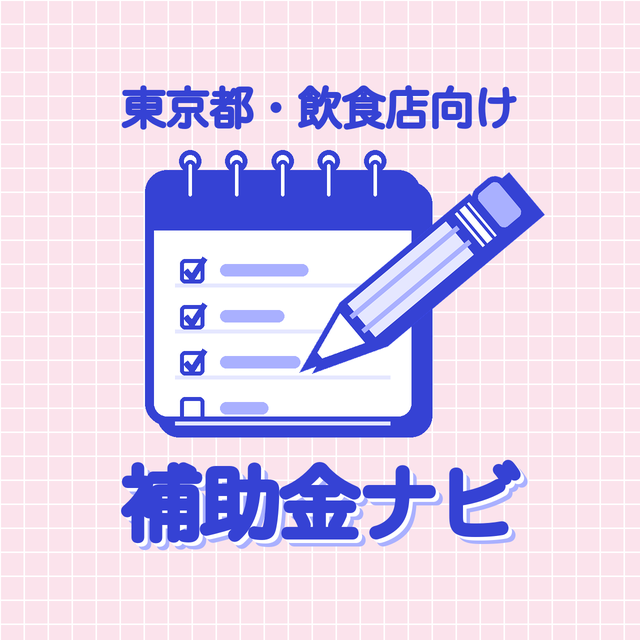
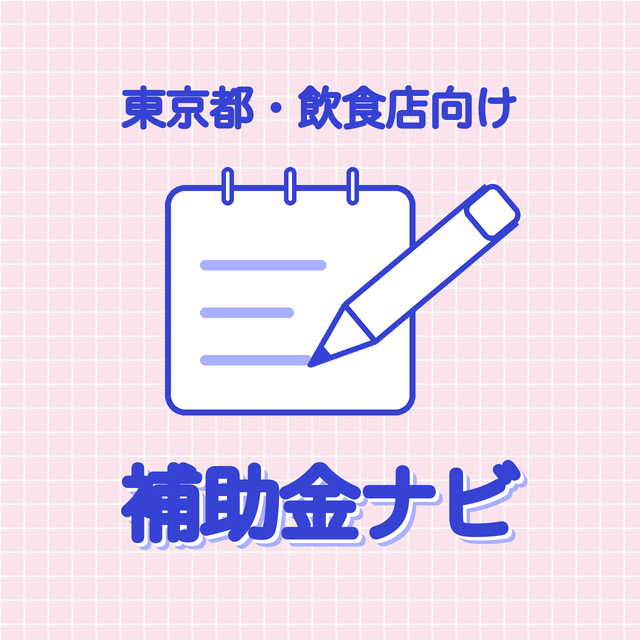
LINEアイコンのメモ帳と鉛筆をシンプル・白多めに

Changed region(s): [[0.2188, 0.2188, 0.8438, 0.6875]]

diff --git a/brand/make_icon_memo.py b/brand/make_icon_memo.py
@@ -1,4 +1,4 @@
-"""LINEアイコン：メモ帳と鉛筆（サイトと同じピンク×コバルトブルー、赤系は使わない）640×640 PNG"""
+"""LINEアイコン：シンプルなメモ帳と鉛筆（白多め）（サイトと同じピンク×コバルトブルー、赤系は使わない）640×640 PNG"""
 from pathlib import Path
 from PIL import Image, ImageDraw, ImageFont
 
@@ -22,48 +22,28 @@ def ctext(d, y, text, size, fill, stroke=0, shadow=None):
 
 
 def notepad(d, x0, y0, x1, y1):
-    # ずらし影 → 紙 → 上の帯 → リング → 罫線 → チェック
-    d.rounded_rectangle((x0 + 24, y0 + 24, x1 + 24, y1 + 24), radius=44, fill=BLUE)
-    d.rounded_rectangle((x0, y0, x1, y1), radius=44, fill=WHITE, outline=BLUE, width=18)
-    d.rounded_rectangle((x0, y0, x1, y0 + 120), radius=44, fill=BLUE)
-    d.rectangle((x0, y0 + 70, x1, y0 + 120), fill=BLUE)
-    n = 5
-    for i in range(n):  # リング（綴じ穴）
-        cx = x0 + 90 + i * (x1 - x0 - 180) / (n - 1)
-        d.ellipse((cx - 22, y0 - 40, cx + 22, y0 + 4), fill=WHITE, outline=BLUE, width=10)
-        d.rounded_rectangle((cx - 11, y0 - 20, cx + 11, y0 + 60), radius=11, fill=WHITE, outline=BLUE, width=8)
-    top = y0 + 190
-    for i in range(4):  # 罫線と、書き込みを表す線＋チェック
-        y = top + i * 92
-        d.line((x0 + 60, y + 40, x1 - 60, y + 40), fill=BLUE_SOFT, width=8)
-        d.rounded_rectangle((x0 + 70, y - 12, x0 + 118, y + 36), radius=10, outline=BLUE, width=8)
-        if i < 3:  # チェック済み
-            d.line((x0 + 80, y + 10, x0 + 94, y + 26, x0 + 120, y - 14), fill=BLUE, width=12, joint="curve")
-        w = [0.55, 0.40, 0.50, 0.30][i]
-        d.rounded_rectangle((x0 + 150, y - 2, x0 + 150 + (x1 - x0 - 230) * w, y + 22), radius=12, fill=BLUE_MID)
+    """シンプルなメモ帳：白い紙＋細めの青い線、リング3つ、罫線3本だけ"""
+    d.rounded_rectangle((x0, y0, x1, y1), radius=40, fill=WHITE, outline=BLUE, width=12)
+    for i in range(3):  # リング
+        cx = x0 + (x1 - x0) * (i + 1) / 4
+        d.rounded_rectangle((cx - 12, y0 - 36, cx + 12, y0 + 40), radius=12, fill=WHITE, outline=BLUE, width=9)
+    for i, w in enumerate((0.70, 0.52, 0.62)):  # 書き込みの線
+        y = y0 + 150 + i * 95
+        d.rounded_rectangle((x0 + 70, y, x0 + 70 + (x1 - x0 - 140) * w, y + 20), radius=10, fill=BLUE_MID)
 
 
-def pencil(size_len=640, thick=120):
-    """横向きの鉛筆を描いて返す（あとで回転させる）。赤やピンクは使わない"""
+def pencil(size_len=520, thick=96):
+    """シンプルな鉛筆：白い軸に青い輪郭、先端の芯と消しゴムの区切りだけ"""
     L, T = size_len, thick
-    im = Image.new("RGBA", (L + 60, T + 60), (0, 0, 0, 0))
+    im = Image.new("RGBA", (L + 40, T + 40), (0, 0, 0, 0))
     d = ImageDraw.Draw(im)
-    o = 30
-    tip = 150
-    # 影
-    d.polygon([(o + 18, o + 18 + T / 2), (o + 18 + tip, o + 18), (o + 18 + L, o + 18), (o + 18 + L, o + 18 + T), (o + 18 + tip, o + 18 + T)], fill=BLUE)
-    # 削った木の部分（白）と芯（青）
-    d.polygon([(o, o + T / 2), (o + tip, o), (o + tip, o + T)], fill=WHITE, outline=BLUE, width=12)
-    d.polygon([(o, o + T / 2), (o + 52, o + T / 2 - 19), (o + 52, o + T / 2 + 19)], fill=BLUE)
-    # 軸（淡いブルー）＋ストライプ
-    d.rectangle((o + tip, o, o + L - 130, o + T), fill=BLUE_SOFT, outline=BLUE, width=12)
-    d.line((o + tip, o + T / 3, o + L - 130, o + T / 3), fill=BLUE_MID, width=10)
-    d.line((o + tip, o + 2 * T / 3, o + L - 130, o + 2 * T / 3), fill=BLUE_MID, width=10)
-    # 金具（白）と消しゴム（中間のブルー）
-    d.rectangle((o + L - 130, o, o + L - 70, o + T), fill=WHITE, outline=BLUE, width=12)
-    d.line((o + L - 110, o, o + L - 110, o + T), fill=BLUE, width=6)
-    d.line((o + L - 90, o, o + L - 90, o + T), fill=BLUE, width=6)
-    d.rounded_rectangle((o + L - 76, o, o + L, o + T), radius=24, fill=BLUE_MID, outline=BLUE, width=12)
+    o, tip = 20, 130
+    d.polygon([(o, o + T / 2), (o + tip, o), (o + L, o), (o + L, o + T), (o + tip, o + T)], fill=WHITE)
+    d.line([(o + tip, o), (o + L - 20, o)], fill=BLUE, width=11)
+    d.line([(o + tip, o + T), (o + L - 20, o + T)], fill=BLUE, width=11)
+    d.rounded_rectangle((o + L - 90, o, o + L, o + T), radius=22, fill=WHITE, outline=BLUE, width=11)
+    d.line([(o + tip, o), (o, o + T / 2), (o + tip, o + T), (o + tip, o)], fill=BLUE, width=11, joint="curve")
+    d.polygon([(o, o + T / 2), (o + 44, o + T / 2 - 16), (o + 44, o + T / 2 + 16)], fill=BLUE)
     return im
 
 
@@ -74,9 +54,9 @@ for i in range(0, S, 48):
     d.line((0, i, S, i), fill=GRID, width=3)
 
 ctext(d, 170, "東京都・飲食店向け", 88, BLUE, stroke=3)
-notepad(d, 290, 340, 840, 850)
-p = pencil(560, 110).rotate(40, expand=True, resample=Image.BICUBIC)  # ペン先を左下（未チェックの行）に
-img.paste(p, (520, 300), p)
+notepad(d, 330, 370, 830, 830)
+p = pencil().rotate(40, expand=True, resample=Image.BICUBIC)  # ペン先を左下（3本目の線の先）に
+img.paste(p, (560, 330), p)
 d = ImageDraw.Draw(img)
 ctext(d, 925, "補助金ナビ", 158, BLUE, stroke=7, shadow=[(14, BLUE_MID), (7, WHITE)])
 

diff --git a/brand/make_icon_memo_pdf.py b/brand/make_icon_memo_pdf.py
@@ -1,4 +1,4 @@
-"""メモ帳と鉛筆のアイコンを、Canvaなどで文字・図形を編集できるベクターPDFにする（640×640）"""
+"""シンプルなメモ帳と鉛筆（白多め）のアイコンを、Canvaなどで文字・図形を編集できるベクターPDFにする（640×640）"""
 from pathlib import Path
 from reportlab.pdfgen import canvas
 from reportlab.pdfbase import pdfmetrics
@@ -49,63 +49,36 @@ for i in range(0, S + 1, 24):
 
 text_center(85, "東京都・飲食店向け", 44)
 
-# メモ帳（座標は上から測った値）
-x0, y0, x1, y1 = 145, 170, 420, 425
-fill(BLUE)
-c.roundRect(x0 + 12, Y(y1 + 12), x1 - x0, y1 - y0, 22, stroke=0, fill=1)   # ずらし影
+# メモ帳（座標は上から測った値）：白い紙＋青い輪郭、リング3つ、書き込みの線3本
+x0, y0, x1, y1 = 165, 185, 415, 415
 fill(WHITE)
-stroke(BLUE, 9)
-c.roundRect(x0, Y(y1), x1 - x0, y1 - y0, 22, stroke=1, fill=1)            # 紙
-fill(BLUE)
-c.roundRect(x0, Y(y0 + 60), x1 - x0, 60, 22, stroke=0, fill=1)             # 上の帯
-c.rect(x0, Y(y0 + 60), x1 - x0, 25, stroke=0, fill=1)
-for i in range(5):                                                         # リング
-    cx = x0 + 45 + i * (x1 - x0 - 90) / 4
-    fill(WHITE)
-    stroke(BLUE, 4)
-    c.roundRect(cx - 5.5, Y(y0 + 30), 11, 40, 5.5, stroke=1, fill=1)
-for i in range(4):                                                         # 罫線・チェック・書き込み
-    y = y0 + 95 + i * 46
-    stroke(BLUE_SOFT, 4)
-    c.line(x0 + 30, Y(y + 20), x1 - 30, Y(y + 20))
-    stroke(BLUE, 4)
-    c.roundRect(x0 + 35, Y(y + 18), 24, 24, 5, stroke=1, fill=0)
-    if i < 3:
-        c.setLineWidth(6)
-        p = c.beginPath()
-        p.moveTo(x0 + 40, Y(y + 5))
-        p.lineTo(x0 + 47, Y(y + 13))
-        p.lineTo(x0 + 60, Y(y - 7))
-        c.drawPath(p, stroke=1, fill=0)
+stroke(BLUE, 6)
+c.roundRect(x0, Y(y1), x1 - x0, y1 - y0, 20, stroke=1, fill=1)
+for i in range(3):
+    cx = x0 + (x1 - x0) * (i + 1) / 4
+    stroke(BLUE, 4.5)
+    c.roundRect(cx - 6, Y(y0 + 20), 12, 38, 6, stroke=1, fill=1)
+for i, w in enumerate((0.70, 0.52, 0.62)):
+    y = y0 + 75 + i * 47.5
     fill(BLUE_MID)
-    c.roundRect(x0 + 75, Y(y + 11), (x1 - x0 - 115) * [0.55, 0.40, 0.50, 0.30][i], 12, 6, stroke=0, fill=1)
+    c.roundRect(x0 + 35, Y(y + 10), (x1 - x0 - 70) * w, 10, 5, stroke=0, fill=1)
 
-# 鉛筆（横向きに描いて回転。ペン先が左下）
+# 鉛筆：白い軸に青い輪郭。ペン先が3本目の線の先（左下）
 c.saveState()
-c.translate(300, Y(345))      # ペン先の位置
+c.translate(298, Y(337))
 c.rotate(40)
-L, T, tip = 280, 55, 75
-fill(BLUE)
-c.rect(tip + 9, -T / 2 - 9, L - tip, T, stroke=0, fill=1)                  # 影
+L, T, tip = 260, 48, 65
 fill(WHITE)
-stroke(BLUE, 6)
+stroke(BLUE, 5.5)
 p = c.beginPath()
-p.moveTo(0, 0); p.lineTo(tip, T / 2); p.lineTo(tip, -T / 2); p.close()
-c.drawPath(p, stroke=1, fill=1)                                            # 削った部分
+p.moveTo(0, 0); p.lineTo(tip, T / 2); p.lineTo(L - 45, T / 2); p.lineTo(L - 45, -T / 2); p.lineTo(tip, -T / 2); p.close()
+c.drawPath(p, stroke=1, fill=1)                       # 軸と削った部分
+c.line(tip, T / 2, tip, -T / 2)
+c.roundRect(L - 45, -T / 2, 45, T, 11, stroke=1, fill=1)  # 消しゴム
 fill(BLUE)
 p = c.beginPath()
-p.moveTo(0, 0); p.lineTo(26, 9.5); p.lineTo(26, -9.5); p.close()
-c.drawPath(p, stroke=0, fill=1)                                            # 芯
-fill(BLUE_SOFT)
-c.rect(tip, -T / 2, L - tip - 65, T, stroke=1, fill=1)                     # 軸
-stroke(BLUE_MID, 5)
-c.line(tip, T / 6, L - 65, T / 6)
-c.line(tip, -T / 6, L - 65, -T / 6)
-fill(WHITE)
-stroke(BLUE, 6)
-c.rect(L - 65, -T / 2, 30, T, stroke=1, fill=1)                            # 金具
-fill(BLUE_MID)
-c.roundRect(L - 38, -T / 2, 38, T, 12, stroke=1, fill=1)                   # 消しゴム
+p.moveTo(0, 0); p.lineTo(22, 8); p.lineTo(22, -8); p.close()
+c.drawPath(p, stroke=0, fill=1)                       # 芯
 c.restoreState()
 
 text_center(455, "補助金ナビ", 76)
